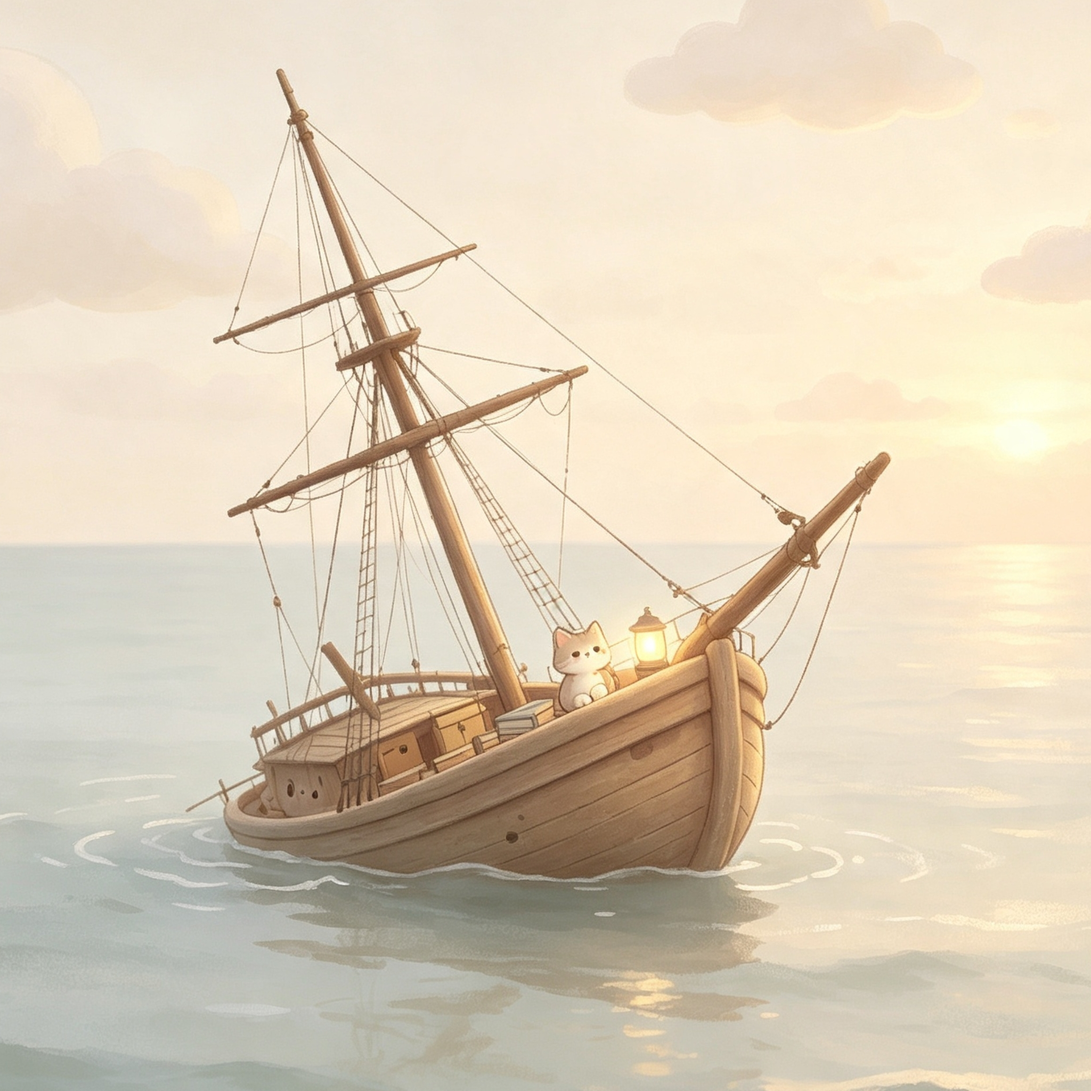
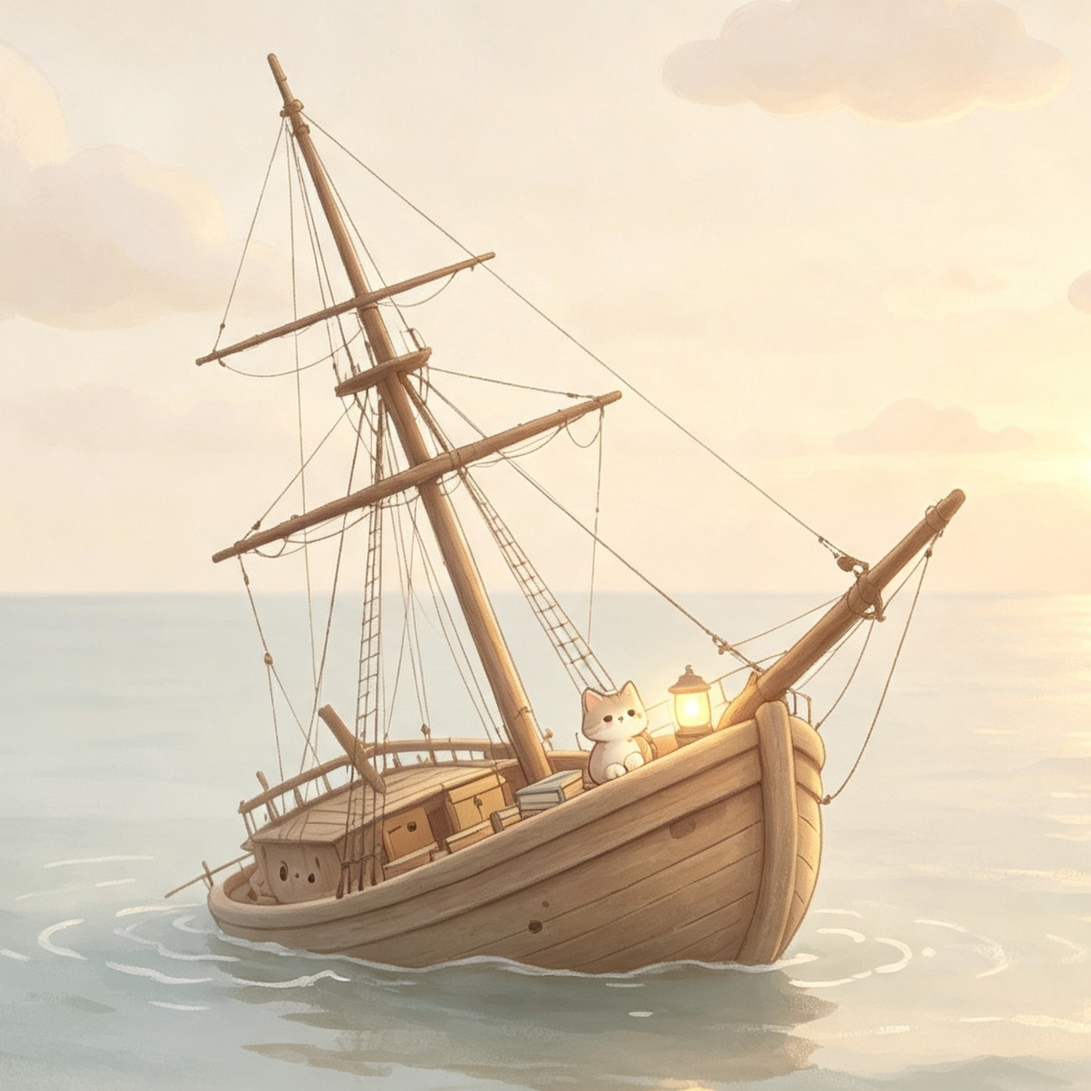
feat: 关于页左侧固定头像栏（换新头像、放大、sticky）

diff --git a/assets/css/extended/custom.css b/assets/css/extended/custom.css
@@ -1,10 +1,45 @@
-/* 关于页头像 */
+/* 关于页布局：左侧固定头像+名字，右侧内容 */
+.about-layout {
+  display: flex;
+  gap: 2.5rem;
+  align-items: flex-start;
+}
+.about-side {
+  flex: 0 0 200px;
+  text-align: center;
+  position: sticky;
+  top: 1.5rem;
+}
 .about-avatar img {
   border-radius: 50%;
-  width: 120px;
-  height: 120px;
+  width: 160px;
+  height: 160px;
   object-fit: cover;
-  margin-bottom: 0.5rem;
+  margin-bottom: 0.75rem;
+}
+.about-name {
+  font-size: 1.4rem;
+  margin-bottom: 0.25rem;
+}
+.about-tagline {
+  color: var(--secondary);
+  font-size: 0.9rem;
+}
+.about-main {
+  flex: 1;
+  min-width: 0;
+}
+@media (max-width: 700px) {
+  .about-layout {
+    flex-direction: column;
+    align-items: center;
+  }
+  .about-side {
+    position: static;
+  }
+  .about-main {
+    width: 100%;
+  }
 }
 
 /* 404 页面 */

diff --git a/content/about.md b/content/about.md
@@ -3,9 +3,15 @@ title: "关于"
 url: "/about/"
 ---
 
-<div class="about-avatar">
-  <img src="/img/avatar.jpg" alt="沉舟的头像">
-</div>
+<div class="about-layout">
+  <aside class="about-side">
+    <div class="about-avatar">
+      <img src="/img/avatar.jpg" alt="沉舟的头像">
+    </div>
+    <h2 class="about-name">沉舟</h2>
+    <p class="about-tagline">后端开发 · 网络编程</p>
+  </aside>
+  <div class="about-main">
 
 ## 你好，我是沉舟
 
@@ -25,3 +31,6 @@ url: "/about/"
 ## 关于这个博客
 
 「舟上码途」记录我的开发日志、项目复盘与面试经验，欢迎交流。
+
+  </div>
+</div>
